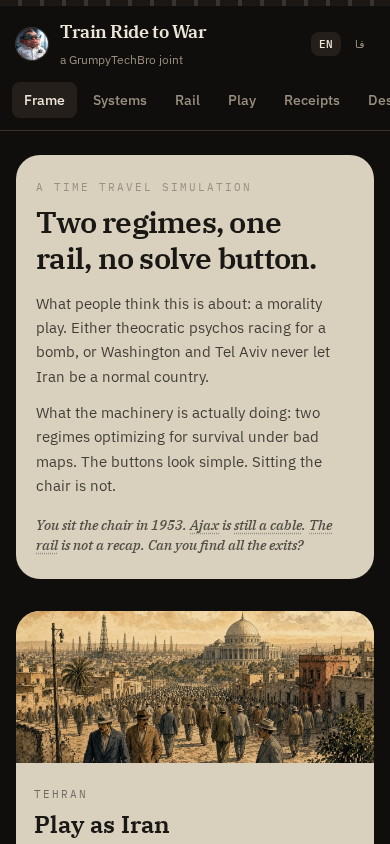
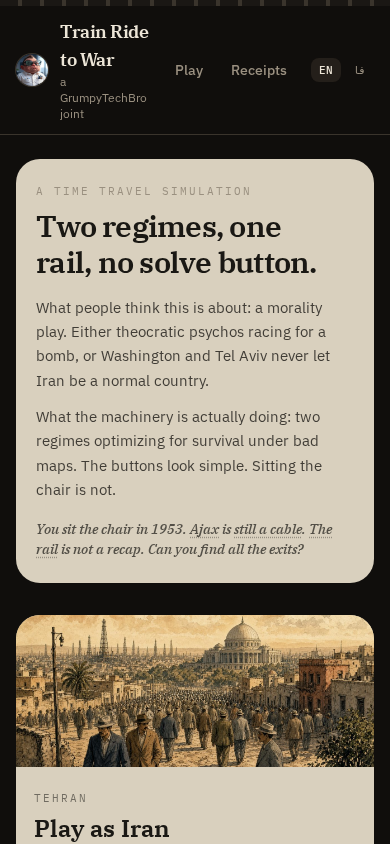
Players get Play and Receipts.
Frame, Systems, Rail, and Design are off the header. Title and pfp go home. The architect pages stay at their URLs.

diff --git a/src/view/AppHeader.tsx b/src/view/AppHeader.tsx
@@ -7,57 +7,57 @@ import { useLocale } from "./LocaleContext.tsx";
 export function AppHeader({ current }: { current: string }) {
   const { t } = useLocale();
   const nav = [
-    { to: "/", label: t("navFrame") },
-    { to: "/systems", label: t("navSystems") },
-    { to: "/rail", label: t("navRail") },
     { to: "/play", label: t("navPlay") },
     { to: "/receipts", label: t("navReceipts") },
-    { to: "/design", label: t("navDesign") },
   ] as const;
   return (
     <header className="border-b border-border bg-bg">
       <div className="rail-ties h-1.5 w-full bg-surface" />
       <div className="mx-auto flex max-w-6xl flex-wrap items-center gap-3 px-4 py-3 sm:px-6">
-        <img
-          src="/gtb-pfp.jpg"
-          alt=""
-          width={32}
-          height={32}
-          className="size-8 shrink-0 rounded-full object-cover ring-1 ring-border"
-        />
+        <Link to="/" className="shrink-0 no-underline" aria-label={t("product")}>
+          <img
+            src="/gtb-pfp.jpg"
+            alt=""
+            width={32}
+            height={32}
+            className="size-8 rounded-full object-cover ring-1 ring-border"
+          />
+        </Link>
         <div className="min-w-0 flex-1">
-          <p className="font-serif text-lg font-semibold tracking-tight text-fg sm:text-xl">{t("product")}</p>
+          <Link
+            to="/"
+            className="font-serif text-lg font-semibold tracking-tight text-fg no-underline hover:text-fg sm:text-xl"
+          >
+            {t("product")}
+          </Link>
           <a
             href={X_PROFILE}
             target="_blank"
             rel="noopener noreferrer"
-            className="text-xs text-muted hover:text-fg"
+            className="block text-xs text-muted hover:text-fg"
           >
             {t("joint")}
           </a>
         </div>
+        <nav aria-label={t("navSections")} className="flex items-center gap-1">
+          {nav.map((item) => {
+            const active = current === item.to;
+            return (
+              <Link
+                key={item.to}
+                to={item.to}
+                className={cn(
+                  "shrink-0 rounded-[var(--radius-sm)] px-3 py-2 text-sm font-medium",
+                  active ? "bg-surface-2 text-fg" : "text-muted hover:bg-surface hover:text-fg",
+                )}
+              >
+                {item.label}
+              </Link>
+            );
+          })}
+        </nav>
         <LangSwitch />
       </div>
-      <nav
-        aria-label={t("navSections")}
-        className="mx-auto flex max-w-6xl gap-1 overflow-x-auto px-3 pb-3 sm:px-5"
-      >
-        {nav.map((item) => {
-          const active = current === item.to;
-          return (
-            <Link
-              key={item.to}
-              to={item.to}
-              className={cn(
-                "shrink-0 rounded-[var(--radius-sm)] px-3 py-2 text-sm font-medium",
-                active ? "bg-surface-2 text-fg" : "text-muted hover:bg-surface hover:text-fg",
-              )}
-            >
-              {item.label}
-            </Link>
-          );
-        })}
-      </nav>
     </header>
   );
 }

diff --git a/src/view/DesignView.tsx b/src/view/DesignView.tsx
@@ -105,6 +105,11 @@ const QUESTIONS: { q: string; freeze: string }[] = [
       "Yes. Museum, not body counts. Peace is two chairs with 20/20 hindsight. Peace exits sit at the top of Play with one Moral victories counter. Found/possible on every cell. The CSO / memoirs / nukes split lives on the meters, also found/possible. Found-once, localStorage, survives chair switch. US exits: do not force the White Revolution vote, do not force the catalog (he gets cover for the villages), Ford splits the invoice fifty-fifty, private Saudi talks (Hamas cut off). Stop after Fordow is not peace: the Imam lives and Natanz is worse, a path to breakout. Iran exits: hinterland 1979, keep JCPOA limits, do not fund Hamas. Iran has more because they can mostly not enrich. Early enrichment (1957 plant) starts the breakout clock; it is the evil sprint, not a peace tick, and it does not splat until the clock hits zero. There is no Peace Map on the board. Unfound names stay off the empty counters. Nukes is the breakout-zero splat. Convenience store owners: Mossadegh hiring the British engineers is the first store. Then the 7-Eleven letterhead morals. Then the surviving graves: Moscow, the face with no guns, sidelined twice, the Guards installing a new face. CIA wants the debrief. Shot is not a store: Kuwait, keep-the-war, the Imam crater. Best selling memoirs ticks election_loss, not Hail Mary, not serve. Hover on those two is the joke. The rail glossary is the trains-and-exits premise, not a recap slogan. Hindsight is 20/20. There are no time machines in real life. This sim is one.",
   },
   {
+    q: "Player chrome?",
+    freeze:
+      "Header is Play and Receipts. Title and pfp go home. Frame, Systems, Rail, and Design stay on their URLs. They are not player tabs. EN | فا stays. GitHub on the landing is the restore, not a fourth tab.",
+  },
+  {
     q: "Hormuz",
     freeze:
       "The 2019 drone and tanker card sits on the train after Europe bounces. Hormuz as a map is still a different play style. Leave that off the Play landing.",

diff --git a/src/view/HomeView.tsx b/src/view/HomeView.tsx
@@ -52,10 +52,7 @@ export function HomeView() {
         </Link>
       </section>
 
-      <section className="flex flex-col gap-3 sm:flex-row">
-        <Button asChild variant="secondary">
-          <Link to="/systems">{t("readSystems")}</Link>
-        </Button>
+      <section>
         <Button asChild variant="ghost">
           <a href={GITHUB_REPO} target="_blank" rel="noopener noreferrer">
             {t("github")}

diff --git a/docs/CHANGELOG.md b/docs/CHANGELOG.md
@@ -1,5 +1,12 @@
 # CHANGELOG
 
+## 2026-09-11 - Players get Play and Receipts
+
+What: Header is Play and Receipts. Title and pfp go home. Frame, Systems, Rail, and Design are off the player tabs. GitHub stays on the landing.
+
+Why: Those four are the architect's desk. The chair is Play.
+
+
 ## 2026-09-11 - Peace is two chairs with 20/20 hindsight
 
 What: US peace is four: do not force the White Revolution vote, do not force the catalog, Ford splits the invoice, private Saudi talks. Iran still three. The Peace Map is off the board. Moral victories is one found/possible counter; CSO, memoirs, and nukes sit on the meters, also found/possible. Twin Pillars and the SOFA hover. Early enrichment starts the breakout clock; nukes still only tick on the splat.

diff --git a/docs/RECENTGOALS.md b/docs/RECENTGOALS.md
@@ -1,5 +1,12 @@
 # RECENTGOALS
 
+## Players get Play and Receipts, 2026-09-11
+
+What: Header is Play and Receipts. Title goes home. Architect pages stay at their URLs.
+
+Why: Players sit a chair. They do not need the lab map.
+
+
 ## Peace is two chairs, 2026-09-11
 
 What: Four US 20/20 peace listens. No Peace Map. Moral is one counter. CSO/memoirs/nukes split at the bottom, all found/possible. Early enrichment starts the clock.
